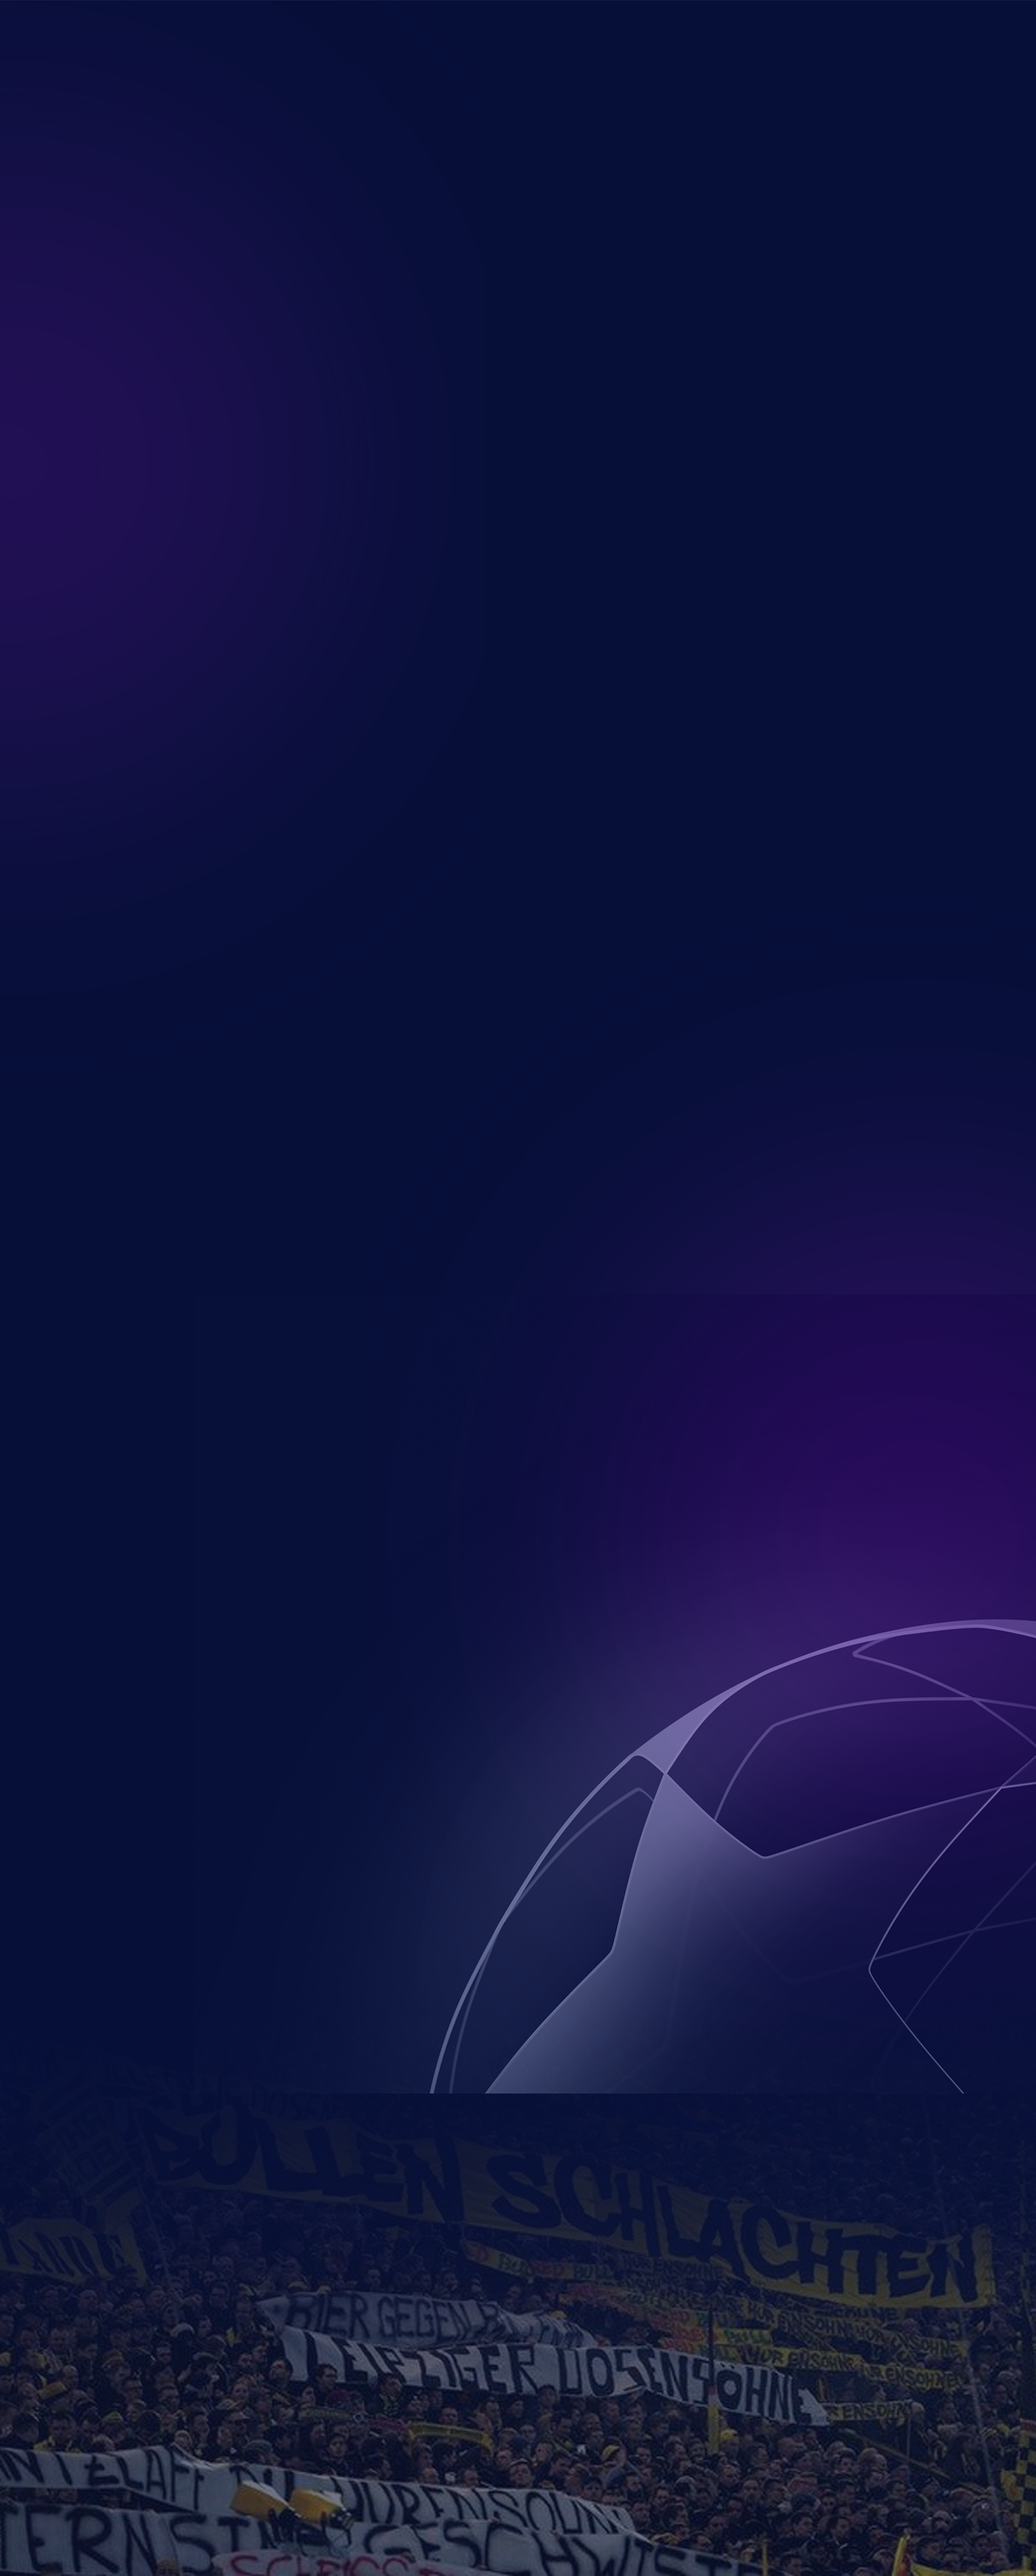
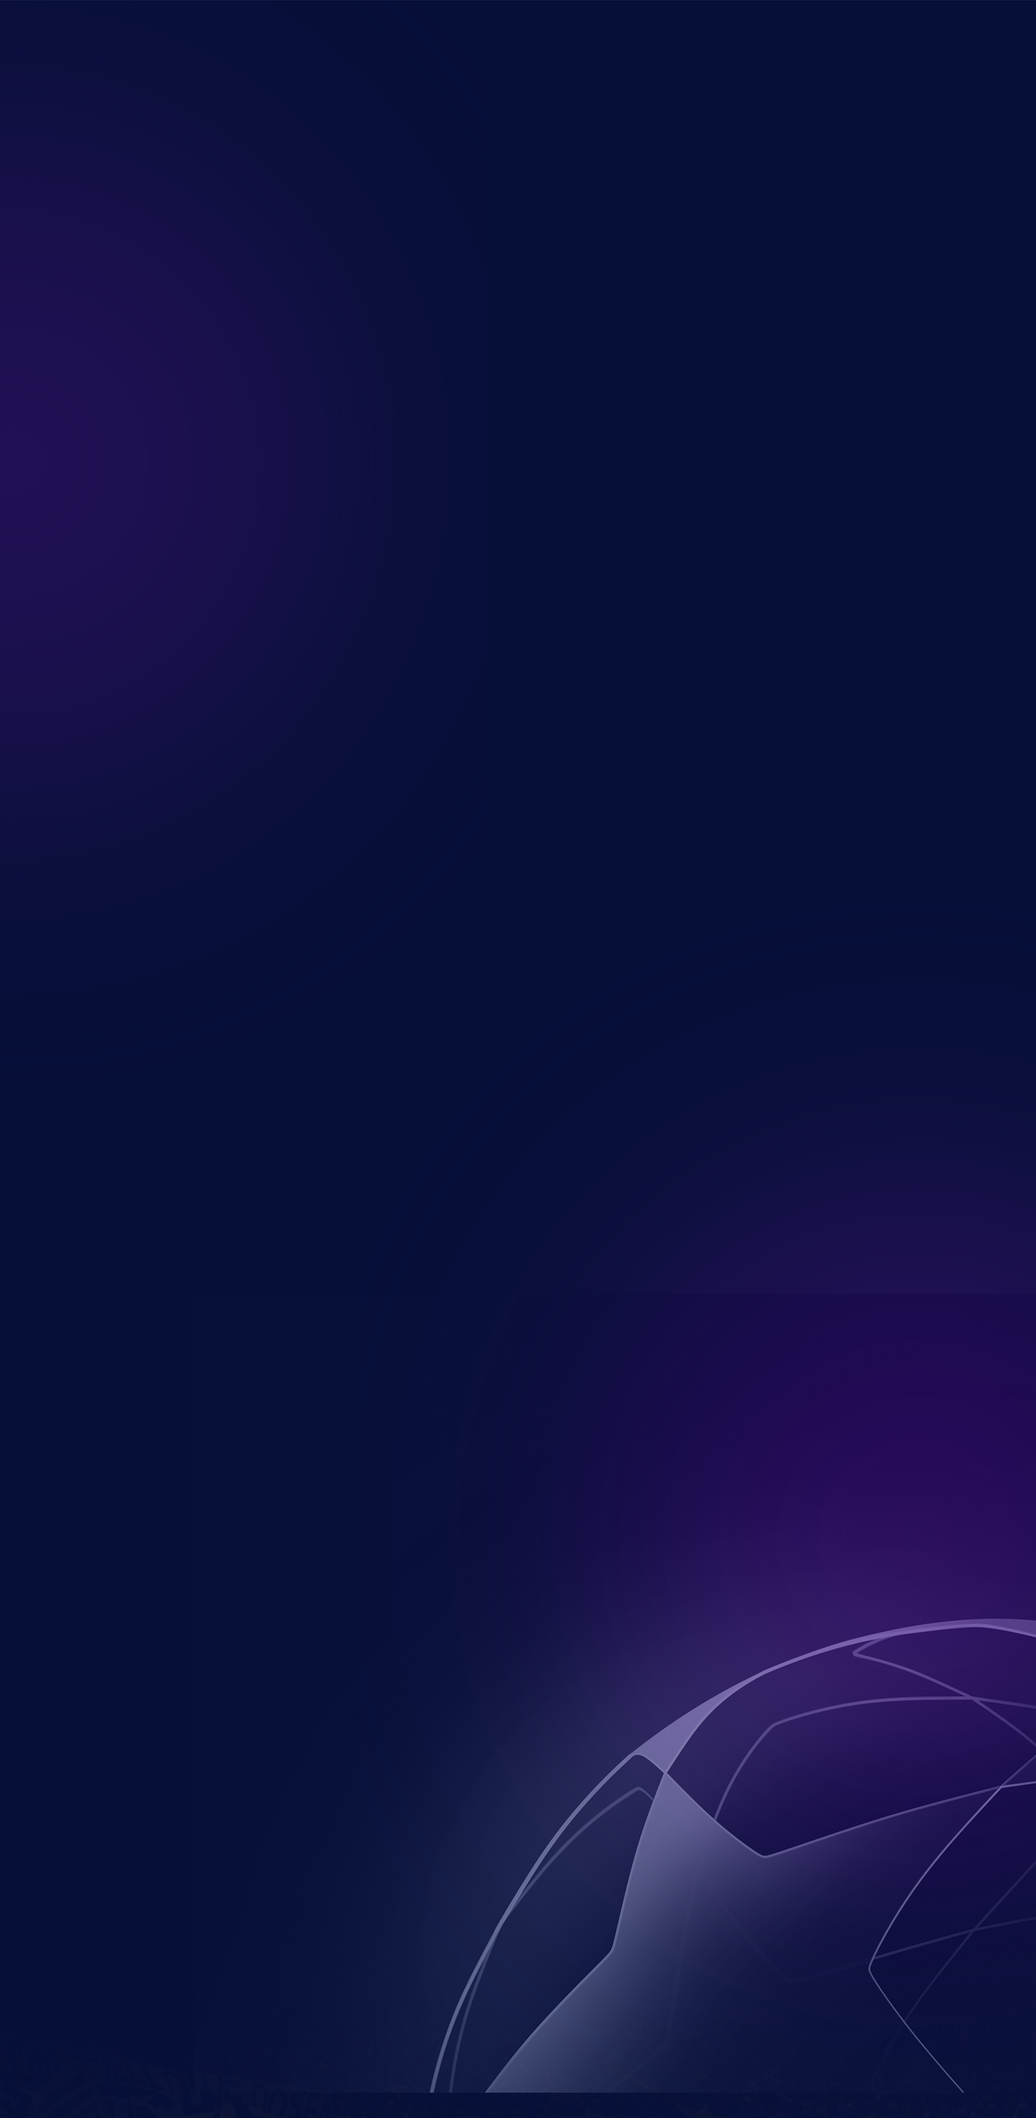
add: js

diff --git a/src/scss/styles.scss b/src/scss/styles.scss
@@ -404,8 +404,8 @@ body {
     display: flex;
     justify-content: center;
     align-items: center;
-		padding-block: clamp(28px, 0.8155px + 7.2492vi, 140px);
-		background: url("../../public/images/bg-footer.png") no-repeat center/cover;
+    padding-block: clamp(28px, 0.8155px + 7.2492vi, 140px);
+    background: url('../../public/images/bg-footer.png') no-repeat top/cover;
     .footer-logo {
       width: clamp(281px, 76.3883px + 54.5631vi, 1124px);
       img {
@@ -417,59 +417,14 @@ body {
   }
 }
 
-// .buy-btn {
-//   border: none;
-//   border-radius: 0.5rem; // 5px
-//   background: $accent-color;
-//   padding: 1rem 2rem; // 10px 20px
-//   color: $text-color;
-//   cursor: pointer;
-// }
+.sticky {
+  position: fixed !important;
+  top:0;
+	left: 50%;
+	transform: translateX(-50%);
+  z-index: 1000;
+}
 
-// .social-links {
-//   display: flex;
-//   justify-content: center;
-//   background: $nav-text-color;
-//   padding: 2rem 0; // 20px 0
-//   gap: 2rem; // 20px
-// }
-
-// .social-links a {
-//   text-decoration: none;
-//   color: $text-color;
-// }
-
-// .about,
-// .team-history,
-// .nfts,
-// .memes {
-//   padding: 5rem 2rem; // 50px 20px
-//   text-align: center;
-// }
-
-// .about img,
-// .team-history img,
-// .nft-images img,
-// .meme-images img {
-//   margin: 2rem 0; // 20px 0
-//   max-width: 30rem; // 300px
-//   width: 100%;
-// }
-
-// .nft-images,
-// .meme-images {
-//   display: flex;
-//   justify-content: center;
-//   flex-wrap: wrap;
-//   gap: 1rem; // 10px
-// }
-
-// footer {
-//   background: $primary-color;
-//   padding: 2rem 0; // 20px 0
-//   text-align: center;
-// }
-
-// footer img {
-//   width: 10rem; // 100px
-// }
+.sticky + .container {
+  padding-top: clamp(58px, 1.6893px + 15.0162vi, 290px);
+}

diff --git a/public/styles/styles.css b/public/styles/styles.css
@@ -359,7 +359,7 @@ body {
   justify-content: center;
   align-items: center;
   padding-block: clamp(28px, 0.8155px + 7.2492vi, 140px);
-  background: url("../../public/images/bg-footer.png") no-repeat center/cover;
+  background: url("../../public/images/bg-footer.png") no-repeat top/cover;
 }
 #section-3 footer .footer-logo {
   width: clamp(281px, 76.3883px + 54.5631vi, 1124px);
@@ -368,6 +368,18 @@ body {
   width: 100%;
   height: 100%;
   object-fit: cover;
+}
+
+.sticky {
+  position: fixed !important;
+  top: 0;
+  left: 50%;
+  transform: translateX(-50%);
+  z-index: 1000;
+}
+
+.sticky + .container {
+  padding-top: clamp(58px, 1.6893px + 15.0162vi, 290px);
 }
 
 /*# sourceMappingURL=styles.css.map */

diff --git a/public/index.html b/public/index.html
@@ -9,11 +9,12 @@
 	<link rel="stylesheet" href="./styles/styles.css">
 	<!-- Font Brownista -->
 	<link rel="stylesheet" type="text/css" href="../public/fonts/Brownista/style.css" />
+	<script src="./js/scripts.js" defer></script>
 </head>
 
 <body>
 	<section class="section" id="section-1">
-		<header class="container">
+		<header class="container" id="myHeader">
 			<div class="logo">
 				<img src="../public/images/logo.png" alt="Doge-mund Logo">
 			</div>

diff --git a/public/js/scripts.js b/public/js/scripts.js
@@ -1,0 +1,12 @@
+window.onscroll = function() {myFunction()};
+
+const header = document.getElementById("myHeader");
+const sticky = header.offsetTop;
+
+function myFunction() {
+  if (window.scrollY > sticky) {
+    header.classList.add("sticky");
+  } else {
+    header.classList.remove("sticky");
+  }
+}
